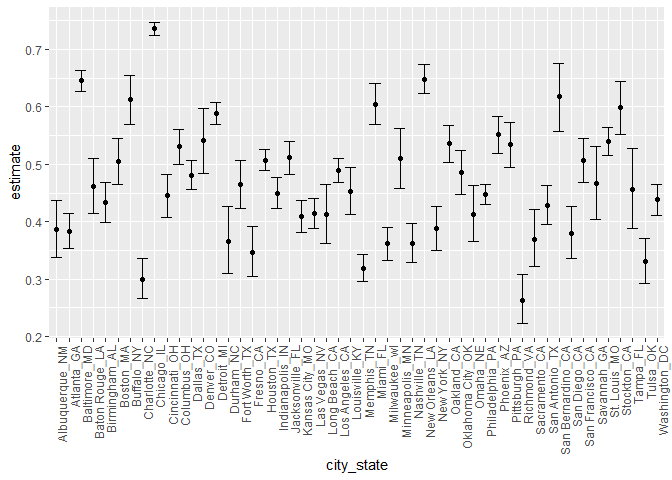
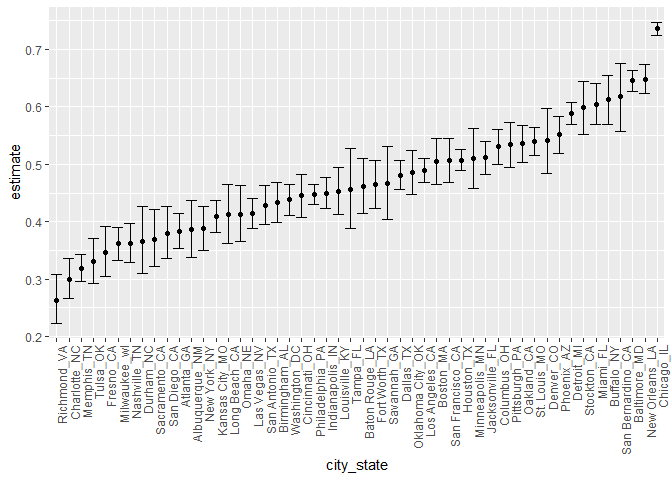
reorder the x-axis according to estimates

diff --git a/homework_5.md b/homework_5.md
@@ -563,7 +563,9 @@ all_proportion
     ## # ... with 40 more rows
 
 ``` r
-ggplot(all_proportion,aes(x=city_state,y=estimate))+
+all_proportion%>%
+  mutate(city_state = forcats::fct_reorder(city_state, estimate))%>%
+  ggplot(aes(x=city_state,y=estimate))+
   geom_point()+
   geom_errorbar(aes(ymin=conf.low,ymax=conf.high))+
   theme(axis.text.x = element_text(angle = 90, hjust = 1))
